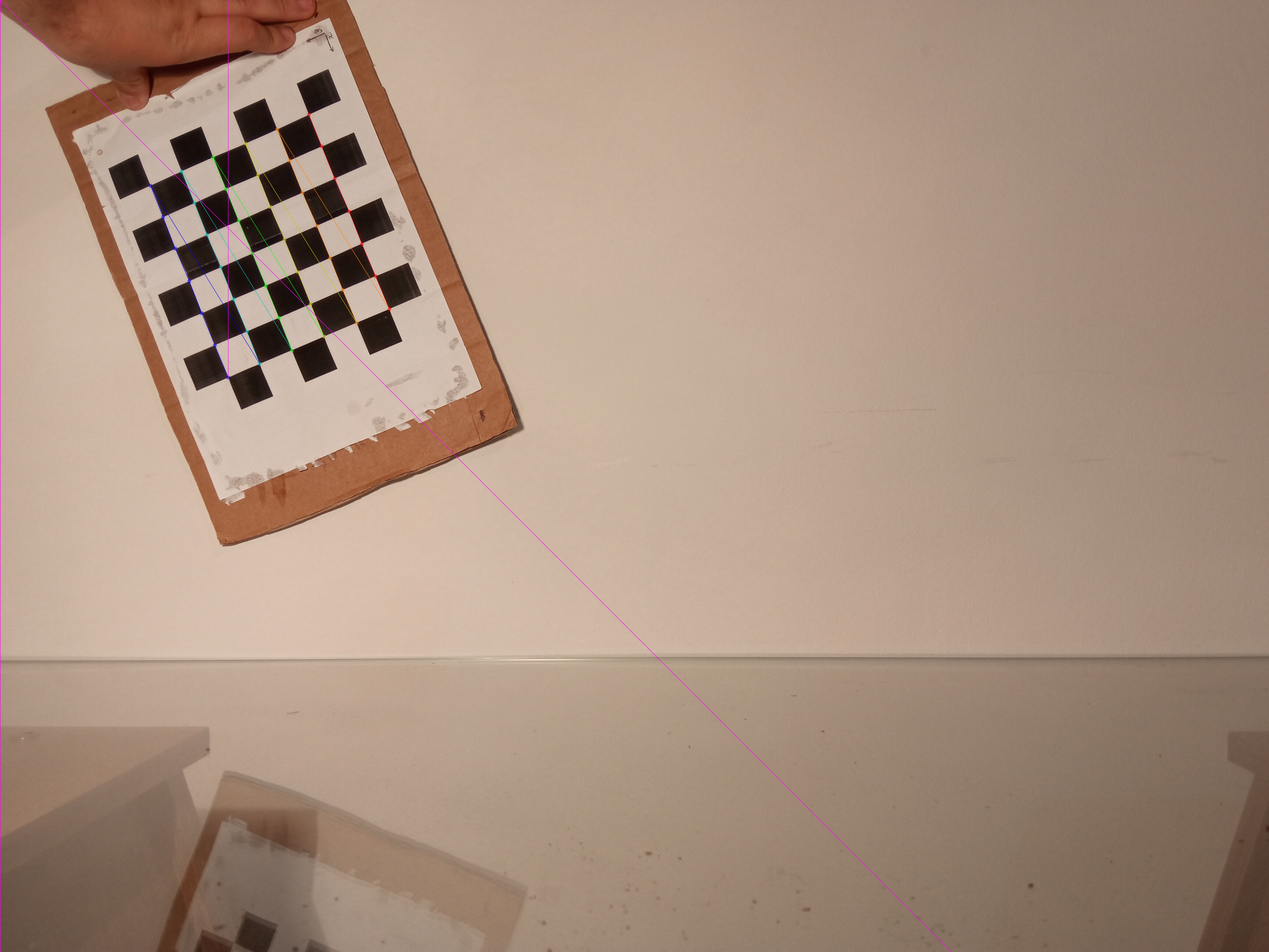
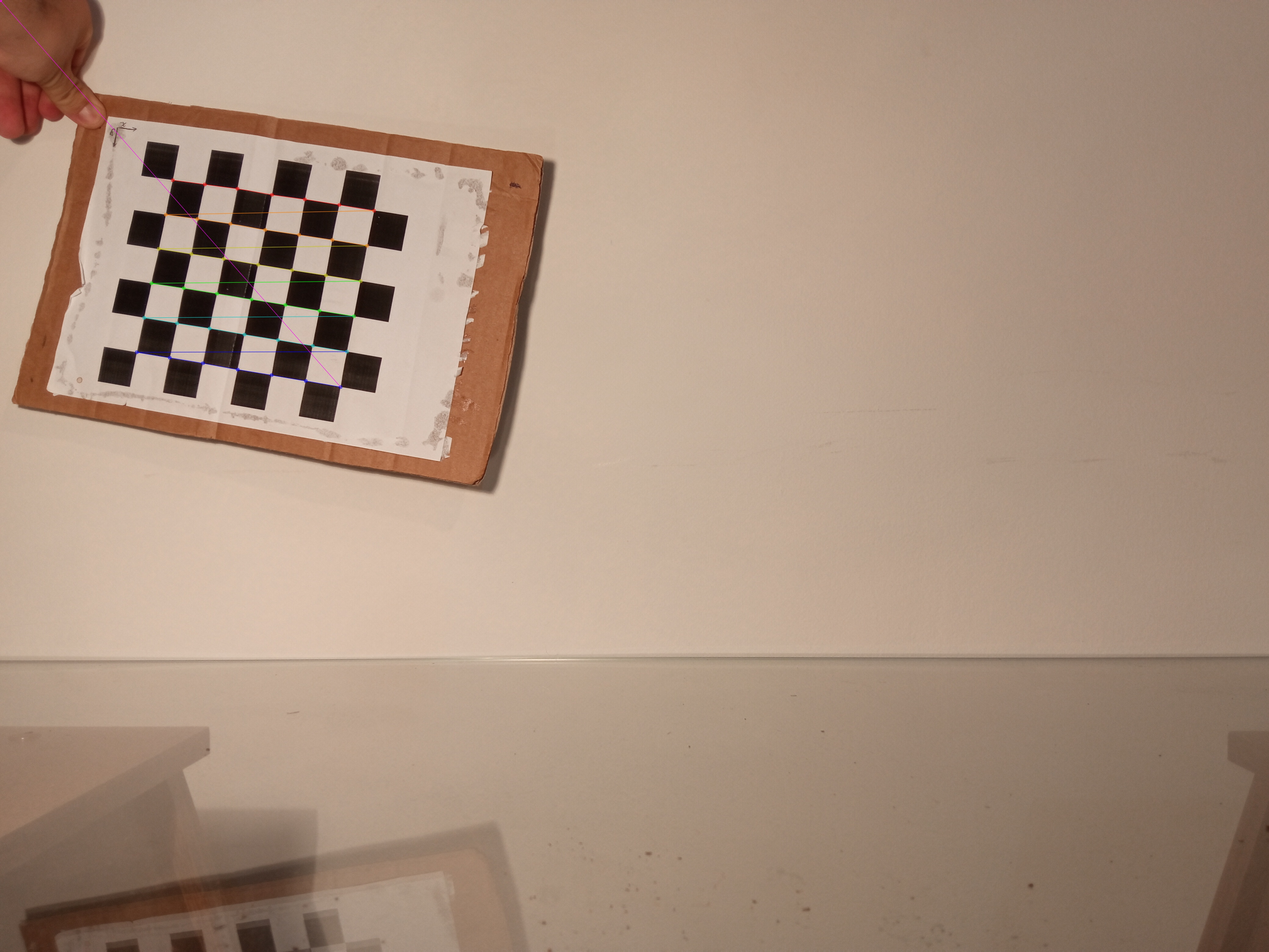
camera calibration

Changed region(s): [[0.0, 0.0, 0.4375, 0.5907], [0.0, 0.8083, 0.3125, 1.0], [0.3438, 0.8705, 0.4062, 0.9016]]

diff --git a/camera_calibration.py b/camera_calibration.py
@@ -4,7 +4,7 @@ import os
 import glob
 
 #https://medium.com/vacatronics/3-ways-to-calibrate-your-camera-using-opencv-and-python-395528a51615
-data = "./data/camera_calibration2"
+data = "./data/camera_calibration_syt"
 
 def calibrate_chessboard(dir_path, image_format, square_size, width, height):
     cont = 0
@@ -31,8 +31,7 @@ def calibrate_chessboard(dir_path, image_format, square_size, width, height):
         cv2.imwrite(f"./data/camera_calibration/gray_{cont}.jpg", gray)
         cont+=1
         # Find the chess board corners
-        ret, corners = cv2.findChessboardCorners(gray, (7, 6),  flags=cv2.CALIB_CB_ADAPTIVE_THRESH + cv2.CALIB_CB_NORMALIZE_IMAGE
-        + cv2.CALIB_CB_FAST_CHECK)
+        ret, corners = cv2.findChessboardCorners(gray, (9, 6),  None)
         print(ret)
         print(corners)
         # If found, add object points, image points (after refining them)
@@ -49,4 +48,4 @@ def calibrate_chessboard(dir_path, image_format, square_size, width, height):
     return []
     #return [ret, mtx, dist, rvecs, tvecs]
 
-parameters = calibrate_chessboard(data, "jpg", 2.5, 6, 6)
+parameters = calibrate_chessboard(data, "jpg", 4, 9, 6)
